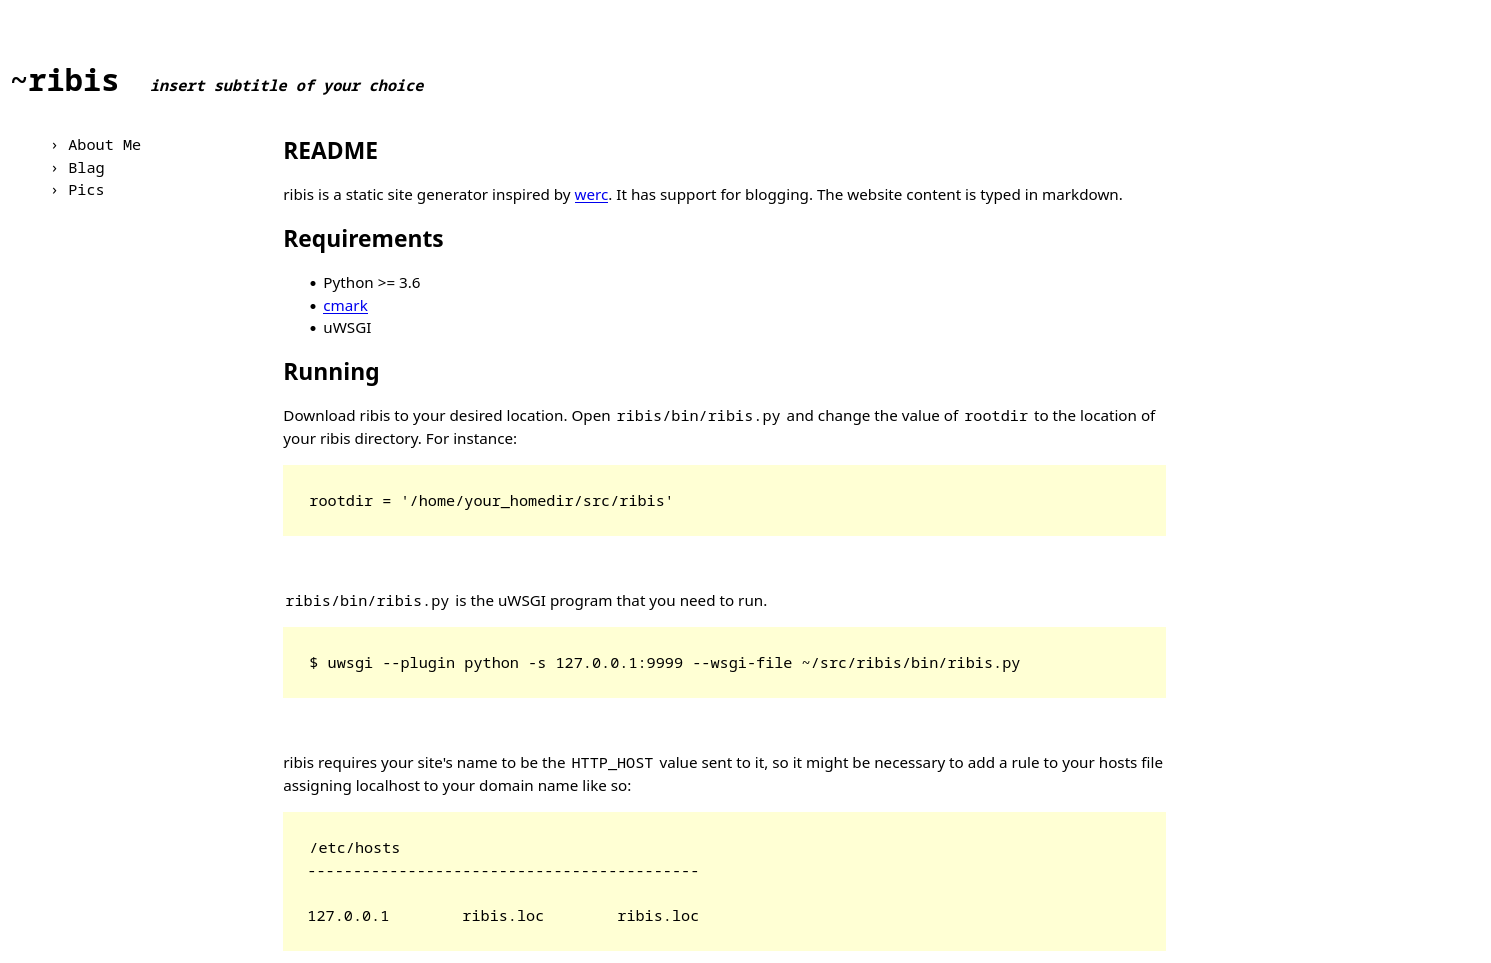
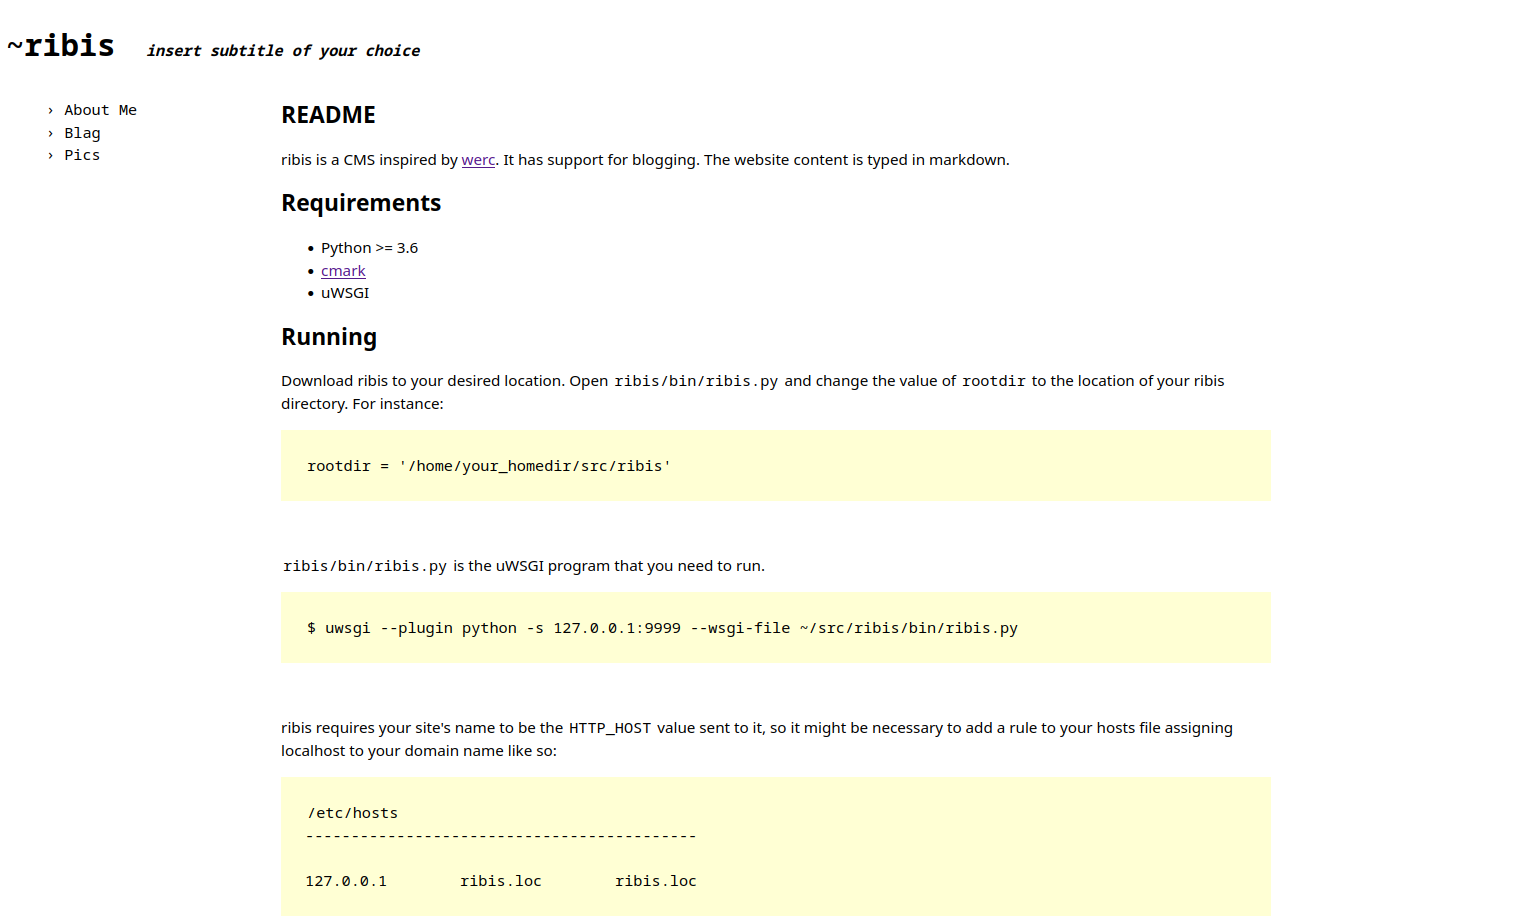
Change "static site generator" to "CMS"

Changed region(s): [[0.0, 0.0303, 0.833, 0.5758], [0.1851, 0.7576, 0.833, 1.0], [0.1851, 0.6061, 0.833, 0.7273]]

diff --git a/README.md b/README.md
@@ -1,6 +1,6 @@
 # README
 
-ribis is a static site generator inspired by [werc](http://werc.cat-v.org). It has support for blogging. The website content is typed in markdown. 
+ribis is a CMS inspired by [werc](http://werc.cat-v.org). It has support for blogging. The website content is typed in markdown. 
 <br>
 
 ## Requirements

diff --git a/sites/ribis.loc/index.md b/sites/ribis.loc/index.md
@@ -1,6 +1,6 @@
 # README
 
-ribis is a static site generator inspired by [werc](http://werc.cat-v.org). It has support for blogging. The website content is typed in markdown. 
+ribis is a CMS inspired by [werc](http://werc.cat-v.org). It has support for blogging. The website content is typed in markdown. 
 <br>
 
 ## Requirements
